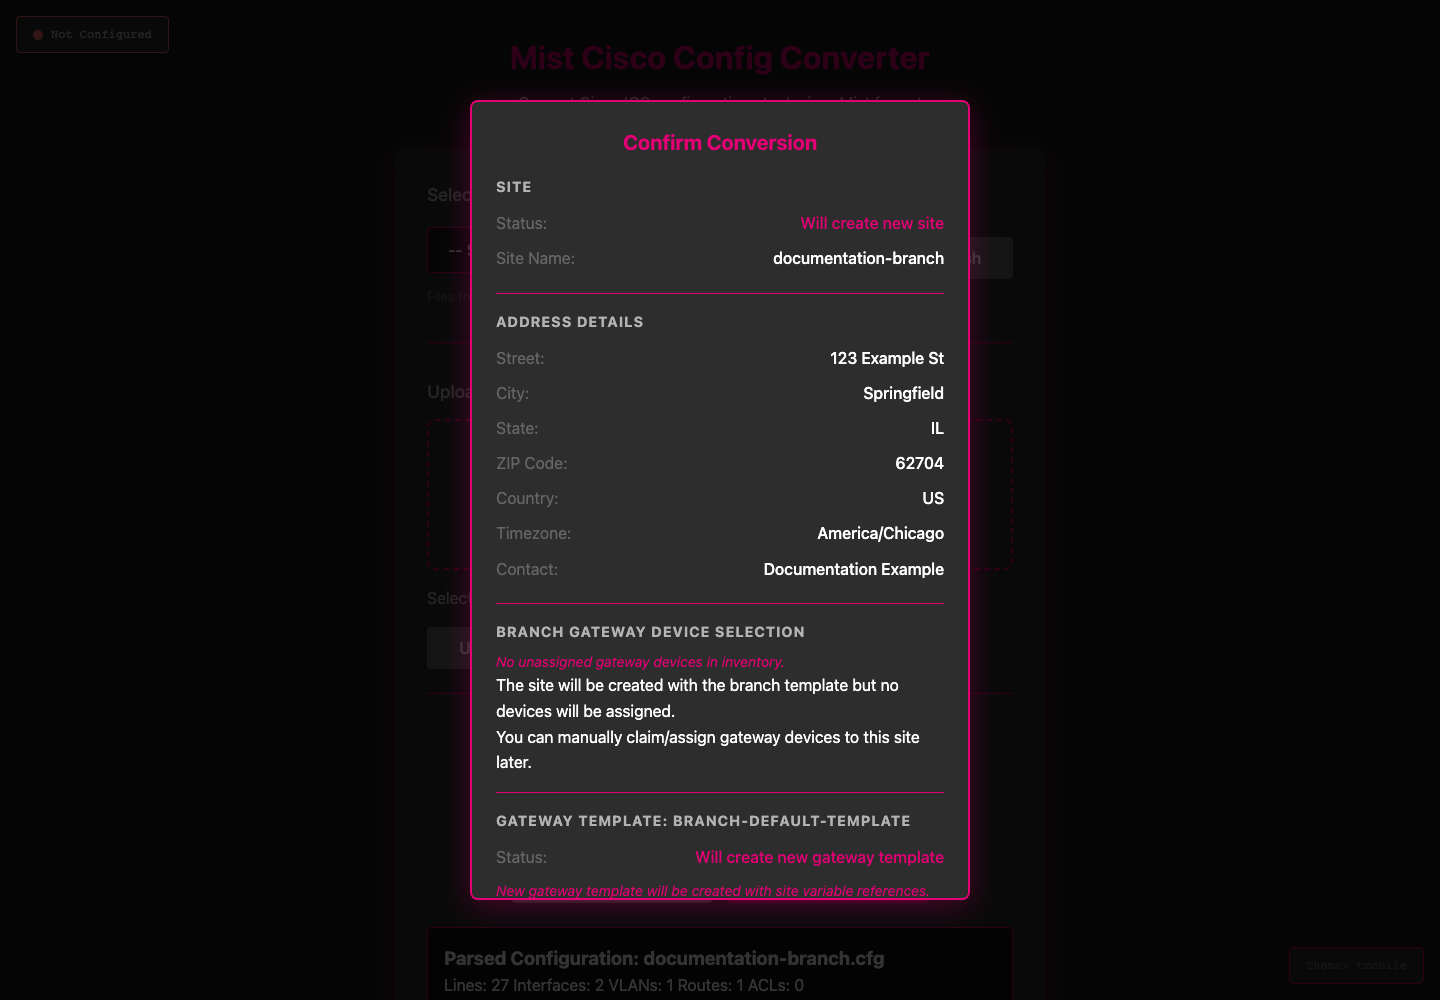
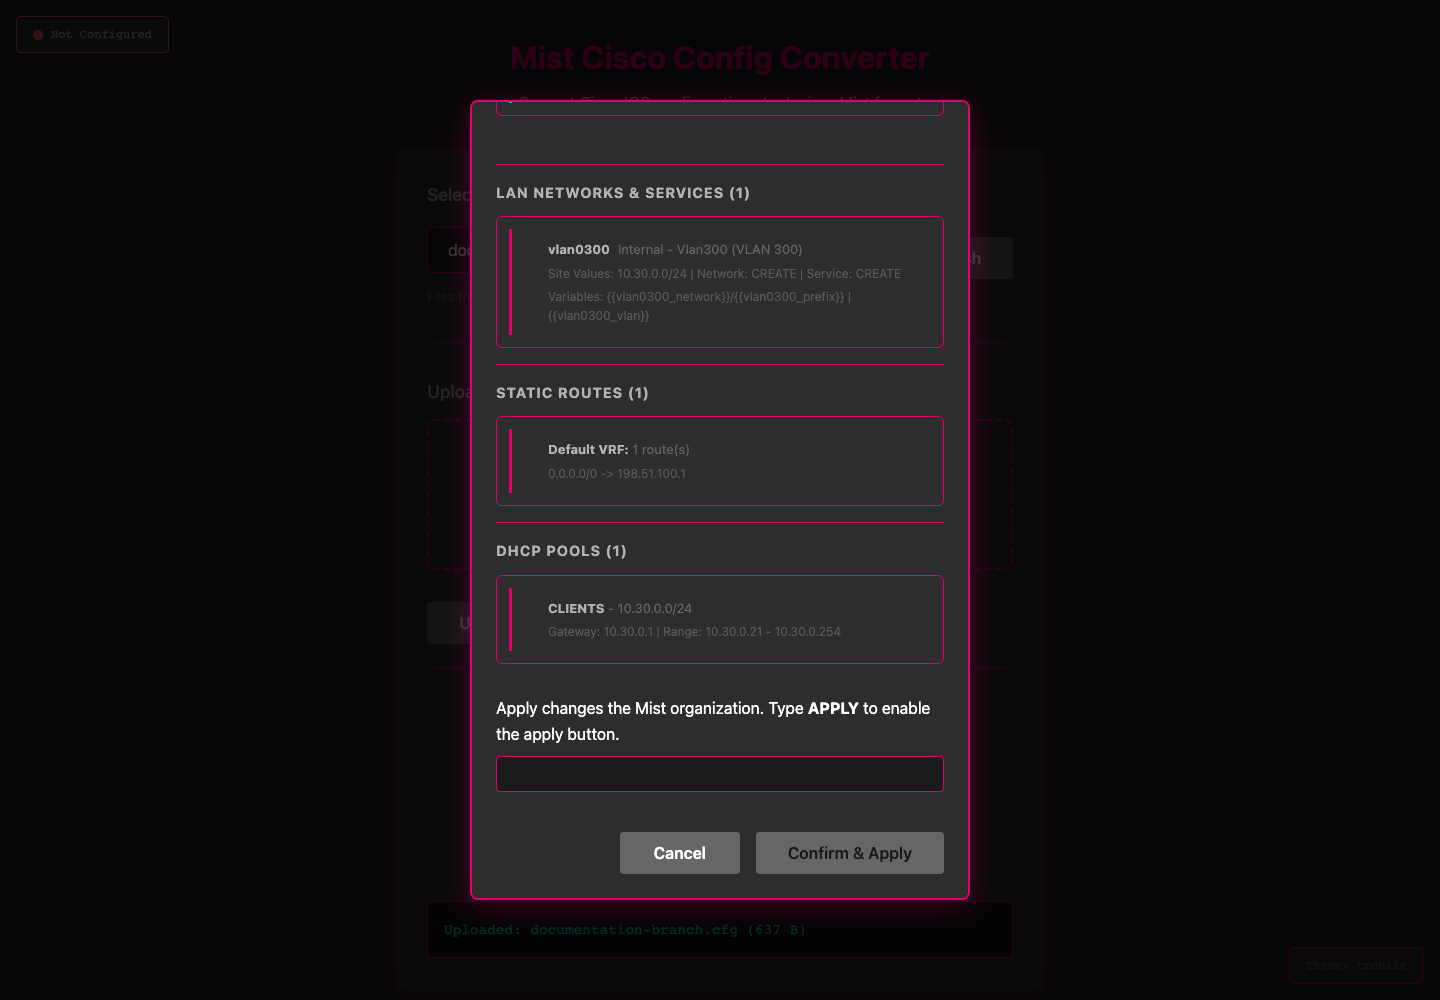
fix(apply): require typed APPLY confirmation before /api/apply (#18)
Add a typed confirmation word to the apply dialog and enforce it on the
server. /api/apply now returns HTTP 400 with "Confirmation required" and
sends no request to Mist when the "confirmation" field is missing or
does not equal APPLY. Add offline tests for missing, incorrect, and
correct words, and refresh the proposal screenshot and documentation.

Closes #17

diff --git a/templates/index.html b/templates/index.html
@@ -142,9 +142,13 @@
             <div class="modal-content">
                 <h3>Confirm Conversion</h3>
                 <div id="confirmDetails"></div>
+                <div class="confirm-word">
+                    <label for="applyConfirmInput">Apply changes the Mist organization. Type <strong>{{ apply_confirmation_word }}</strong> to enable the apply button.</label>
+                    <input type="text" id="applyConfirmInput" autocomplete="off" spellcheck="false" data-confirmation-word="{{ apply_confirmation_word }}">
+                </div>
                 <div class="modal-buttons">
                     <button type="button" class="btn btn-secondary" id="cancelConfirmBtn">Cancel</button>
-                    <button type="button" class="btn btn-primary" id="applyConfirmBtn">Confirm & Apply</button>
+                    <button type="button" class="btn btn-primary" id="applyConfirmBtn" disabled>Confirm & Apply</button>
                 </div>
             </div>
         </div>
@@ -778,6 +782,21 @@
         const confirmDetails = document.getElementById('confirmDetails');
         const cancelConfirmBtn = document.getElementById('cancelConfirmBtn');
         const applyConfirmBtn = document.getElementById('applyConfirmBtn');
+        const applyConfirmInput = document.getElementById('applyConfirmInput');  // The operator types the word here.
+        const applyConfirmationWord = applyConfirmInput.dataset.confirmationWord;  // The server sends the required word.
+        
+        // Enable the apply button only when the typed word matches exactly.
+        function updateApplyConfirmState() {
+            applyConfirmBtn.disabled = applyConfirmInput.value.trim() !== applyConfirmationWord;  // Block the apply until the word matches.
+        }
+        
+        // Clear the typed word so each proposal needs a new confirmation.
+        function resetApplyConfirmation() {
+            applyConfirmInput.value = '';  // Remove the word from the previous proposal.
+            updateApplyConfirmState();  // Disable the apply button again.
+        }
+        
+        applyConfirmInput.addEventListener('input', updateApplyConfirmState);  // Check the word at each keystroke.
         
         convertBtn.addEventListener('click', async () => {
             convertBtn.disabled = true;
@@ -1411,6 +1430,7 @@
             }
             
             confirmDetails.innerHTML = confirmHtml;
+            resetApplyConfirmation();  // Require a new typed word for this proposal.
             confirmModal.style.display = 'flex';
             
             // For hub, branch, or standalone mode, check for existing gateways or offer unassigned inventory
@@ -1584,10 +1604,13 @@
         cancelConfirmBtn.addEventListener('click', () => {
             confirmModal.style.display = 'none';
             pendingProposal = null;
+            resetApplyConfirmation();  // Do not keep the word after a cancel.
         });
         
         applyConfirmBtn.addEventListener('click', async () => {
             if (!pendingProposal) return;
+            const typedConfirmation = applyConfirmInput.value.trim();  // Read the word that the operator typed.
+            if (typedConfirmation !== applyConfirmationWord) return;  // Stop if the word does not match.
             
             applyConfirmBtn.disabled = true;
             applyConfirmBtn.textContent = 'Applying...';
@@ -1631,7 +1654,8 @@
                 parsed_data: pendingProposal.parsed_data || {},
                 override_ntp: overrideNtp,
                 override_dns: overrideDns,
-                override_syslog: overrideSyslog
+                override_syslog: overrideSyslog,
+                confirmation: typedConfirmation  // The server checks this word before it changes Mist.
             };
             
             try {
@@ -1661,8 +1685,8 @@
                 showMessage('Error: ' + error.message, 'error');
             }
             
-            applyConfirmBtn.disabled = false;
             applyConfirmBtn.textContent = 'Confirm & Apply';
+            resetApplyConfirmation();  // Require a new typed word before the next apply.
         });
 
         // ==================================================

diff --git a/static/css/themes.css b/static/css/themes.css
@@ -702,6 +702,24 @@ body:has(.poweruser-controls) .mist-status {
     font-weight: 500;
 }
 
+.confirm-word {
+    margin-top: 1rem;
+    display: flex;
+    flex-direction: column;
+    gap: 0.5rem;
+    color: var(--color-text-primary);
+}
+
+.confirm-word input {
+    padding: 0.5rem;
+    border: 1px solid var(--color-border);
+    border-radius: 4px;
+    background: var(--color-bg-main);
+    color: var(--color-text-primary);
+    font-family: var(--font-mono);
+    font-size: 1rem;
+}
+
 .modal-buttons {
     display: flex;
     gap: 1rem;

diff --git a/tests/test_conversion.py b/tests/test_conversion.py
@@ -147,5 +147,70 @@ class ConversionTests(unittest.TestCase):
         self.assertEqual(parsed["summary"]["interface_count"], 0)
 
 
+class ApplyConfirmationTests(unittest.TestCase):
+    """Prove that /api/apply needs the typed word before it touches Mist."""
+
+    APPLY_BODY = {"device_name": "edge-branch-01", "gateway_type": "branch"}  # A valid body except for the word.
+
+    def setUp(self):
+        """Create a Flask test client so no network request leaves the test."""
+        self.client = converter_app.app.test_client()  # Send requests to the app in memory.
+
+    def post_apply(self, extra: dict) -> tuple:
+        """Send an apply request with a mocked Mist connection and return the response and the mock."""
+        with patch.object(converter_app, "get_mist_connection") as connection_factory:  # Block each live Mist call.
+            connection_factory.return_value.check_connection.return_value = {
+                "connected": False,
+                "error": "offline test",
+            }  # Stop the route at the first Mist step after the word check.
+            response = self.client.post("/api/apply", json={**self.APPLY_BODY, **extra})  # Send the request.
+        return response, connection_factory  # Give the response and the call record to the test.
+
+    def test_missing_confirmation_is_rejected_before_mist_calls(self):
+        """A request with no confirmation field changes nothing."""
+        response, connection_factory = self.post_apply({})  # Omit the confirmation field.
+        self.assertEqual(response.status_code, 400)  # Reject the request.
+        self.assertEqual(response.get_json()["error"], "Confirmation required")  # Give a clear JSON error.
+        self.assertIn(converter_app.APPLY_CONFIRMATION_WORD, response.get_json()["message"])  # Name the word.
+        connection_factory.assert_not_called()  # Prove that no Mist request started.
+
+    def test_wrong_confirmation_is_rejected_before_mist_calls(self):
+        """A request with an incorrect word changes nothing."""
+        for word in ["apply", "CONFIRM", " APPLY", "", None, ["APPLY"]]:  # Test case, space, other words, and types.
+            with self.subTest(word=word):
+                response, connection_factory = self.post_apply({"confirmation": word})  # Send the wrong word.
+                self.assertEqual(response.status_code, 400)  # Reject the request.
+                self.assertEqual(response.get_json()["error"], "Confirmation required")  # Give a clear JSON error.
+                connection_factory.assert_not_called()  # Prove that no Mist request started.
+
+    def test_matching_confirmation_reaches_the_mist_connection_check(self):
+        """A request with the correct word passes the gate and reaches the mocked Mist check."""
+        response, connection_factory = self.post_apply(
+            {"confirmation": converter_app.APPLY_CONFIRMATION_WORD}
+        )  # Send the correct word.
+        self.assertEqual(response.status_code, 503)  # Stop at the mocked offline connection, not at the gate.
+        self.assertIn("Mist API not connected", response.get_json()["error"])  # Prove the gate let it through.
+        connection_factory.assert_called_once()  # Prove that the route reached the Mist step.
+
+    def test_non_object_json_body_is_rejected(self):
+        """A JSON list cannot pass the gate."""
+        with patch.object(converter_app, "get_mist_connection") as connection_factory:  # Block each live Mist call.
+            response = self.client.post("/api/apply", json=["APPLY"])  # Send a list instead of an object.
+        self.assertEqual(response.status_code, 400)  # Reject the request.
+        connection_factory.assert_not_called()  # Prove that no Mist request started.
+
+    def test_page_disables_apply_until_the_word_is_typed(self):
+        """The page gives the word to the browser and starts with the apply button disabled."""
+        with patch.object(converter_app, "get_mist_connection") as connection_factory:  # Block each live Mist call.
+            page = self.client.get("/").get_data(as_text=True)  # Render the interface.
+        connection_factory.assert_not_called()  # The page render needs no Mist request.
+        self.assertIn('id="applyConfirmInput"', page)  # Show the field for the typed word.
+        self.assertIn(
+            f'data-confirmation-word="{converter_app.APPLY_CONFIRMATION_WORD}"', page
+        )  # Use the server word in the browser.
+        self.assertRegex(page, r'id="applyConfirmBtn" disabled>')  # Start with the apply button disabled.
+        self.assertIn("confirmation: typedConfirmation", page)  # Send the typed word to the server.
+
+
 if __name__ == "__main__":
     unittest.main()

diff --git a/app.py b/app.py
@@ -30,6 +30,9 @@ DATA_DIR = Path(__file__).parent / "data"
 DATA_DIR.mkdir(exist_ok=True)
 LOG_FILE = DATA_DIR / "app.log"
 
+# The operator types this word before /api/apply changes a Mist organization.
+APPLY_CONFIRMATION_WORD = "APPLY"  # One fixed word lets an offline review and a script use the same check.
+
 
 def get_mist_connection() -> MistConnection:
     """Get fresh MistConnection instance.
@@ -1075,7 +1078,12 @@ def index():
     """Main page - config upload interface."""
     theme = get_theme()
     poweruser = is_poweruser()
-    return render_template("index.html", theme=theme, poweruser=poweruser)
+    return render_template(
+        "index.html",
+        theme=theme,
+        poweruser=poweruser,
+        apply_confirmation_word=APPLY_CONFIRMATION_WORD,
+    )  # Give the page the word that the server requires before an apply.
 
 
 @app.route("/health")
@@ -1471,10 +1479,26 @@ def apply_config():
     - selected_devices: list of device MACs for hub mode (optional)
     - configure_ha: boolean - whether to create HA cluster (requires 2 selected devices)
     - assign_to_site: boolean - whether to assign unassigned devices to site first
+    - confirmation: must equal APPLY_CONFIRMATION_WORD, or the request changes nothing
     """
-    data = request.get_json()
+    data = request.get_json(silent=True)  # Read the body without a Flask error page for bad JSON.
     if not data:
         return jsonify({"error": "No JSON data provided"}), 400
+    if not isinstance(data, dict):  # Reject a list or a scalar, because the route reads named fields.
+        return jsonify({"error": "JSON body must be an object"}), 400
+    
+    # Require the typed confirmation word before any Mist request.
+    confirmation = data.get("confirmation")  # Read the word that the operator typed.
+    if confirmation != APPLY_CONFIRMATION_WORD:  # Stop a scripted or accidental apply with no human step.
+        logger.warning(
+            "Apply rejected: confirmation word missing or incorrect (present=%s)",
+            confirmation is not None,
+        )  # Record the rejection without the typed value.
+        return jsonify({
+            "error": "Confirmation required",
+            "message": f"Send {{\"confirmation\": \"{APPLY_CONFIRMATION_WORD}\"}} to apply the settings to Mist"
+        }), 400  # Tell the caller the exact field and word, and apply nothing.
+    logger.info("Apply confirmation word accepted")  # Record that a human step occurred.
     
     device_name = data.get("device_name", "")
     gateway_type = data.get("gateway_type", "")

diff --git a/docs/USER_GUIDE.md b/docs/USER_GUIDE.md
@@ -129,6 +129,23 @@ Use the drag-and-drop upload area to add files directly from the browser. Upload
 | `/api/files`   | GET    | List available config files in input folder              |
 | `/api/upload`  | POST   | Upload config file to input folder                       |
 | `/api/convert` | POST   | Convert config file (supports file selection and upload) |
+| `/api/apply`   | POST   | Apply the reviewed proposal to Mist. Needs `"confirmation": "APPLY"` |
+
+### Apply confirmation
+
+The apply operation changes the Mist organization. The confirmation dialog
+shows a text field below the proposal. Type `APPLY` in the field to enable the
+Confirm & Apply button. The application removes the typed word after a cancel
+or an apply.
+
+The server also checks the word. A request to `/api/apply` must contain the
+JSON value `"confirmation": "APPLY"`. If the field is missing or different, the
+server returns HTTP 400 with the error `Confirmation required`. The server then
+sends no request to Mist. The check is case-sensitive.
+
+Warning: a script that sends the confirmation word skips the review in the
+browser. The script can change the production organization, so examine the
+proposal before you send the word.
 
 ## Development
 
@@ -204,6 +221,12 @@ Backup files are stored in `output/` with timestamped filenames.
 CC BY-NC 4.0 - See [LICENSE](../LICENSE) for details.
 
 ## Changelog
+
+### Apply confirmation word
+
+- Added a typed `APPLY` confirmation to the apply dialog.
+- Made `/api/apply` reject a request that does not contain the confirmation word.
+- Added offline tests for a missing, an incorrect, and a correct confirmation word.
 
 ### Agent instruction files
 

diff --git a/docs/INTERFACE.md b/docs/INTERFACE.md
@@ -32,9 +32,14 @@ Select Convert to Mist to view the proposal. This screen shows the local
 parser's output. Without Mist credentials, cloud object checks cannot verify
 whether a site, template, network, or service already exists.
 
+The capture shows the end of the proposal dialog. Below the proposal, a text
+field asks for the word `APPLY`. The Confirm & Apply button stays disabled until
+you type the word. The server rejects an apply request that does not contain the
+word. Refer to [Apply confirmation](USER_GUIDE.md#apply-confirmation).
+
 ![Conversion proposal](screenshots/proposal.png)
 
-Do not select the apply button during an offline review. Applying settings
+Do not type the confirmation word during an offline review. Applying settings
 requires a configured Mist organization and changes cloud objects.
 
 ## Capture procedure
@@ -49,7 +54,8 @@ requires a configured Mist organization and changes cloud objects.
 4. Upload `docs/examples/documentation-branch.cfg`. Select Branch and SRX, then
    capture the selection screen.
 5. Select Display Only, wait for the parsed result, then capture the page.
-6. Select Convert to Mist, wait for the proposal, then capture it. Do not apply.
+6. Select Convert to Mist and wait for the proposal. Scroll the dialog to its
+   end, then capture it. Do not type the confirmation word, and do not apply.
 
 ```bash
 MIST_APITOKEN='' org_id='' MIST_HOST=127.0.0.1 POWERUSER=false \

diff --git a/.github/copilot-instructions.md b/.github/copilot-instructions.md
@@ -88,8 +88,11 @@ files. Keep the README sections `What`, `How`, `Where`, `When`, `Why`, and `Who`
 ## Safety in this repository
 
 The app reads Cisco files from `input/`, writes logs to `data/`, and stores
-backups in `output/`. The browser requests confirmation before it sends a
-request to `/api/apply`. That route updates settings in Mist. Power user routes
+backups in `output/`. The route `/api/apply` updates settings in Mist. The
+browser enables its apply button only after the user types `APPLY`. The route
+rejects a request without the JSON value `"confirmation": "APPLY"`. It then
+sends no request to Mist. The constant `APPLY_CONFIRMATION_WORD` in `app.py`
+holds the word. Power user routes
 require `POWERUSER=true`. Routes that restore, delete, or unassign objects
 require the JSON value
 `"confirmation": "CONFIRM"`. Backup files use timestamped names in `output/`.
